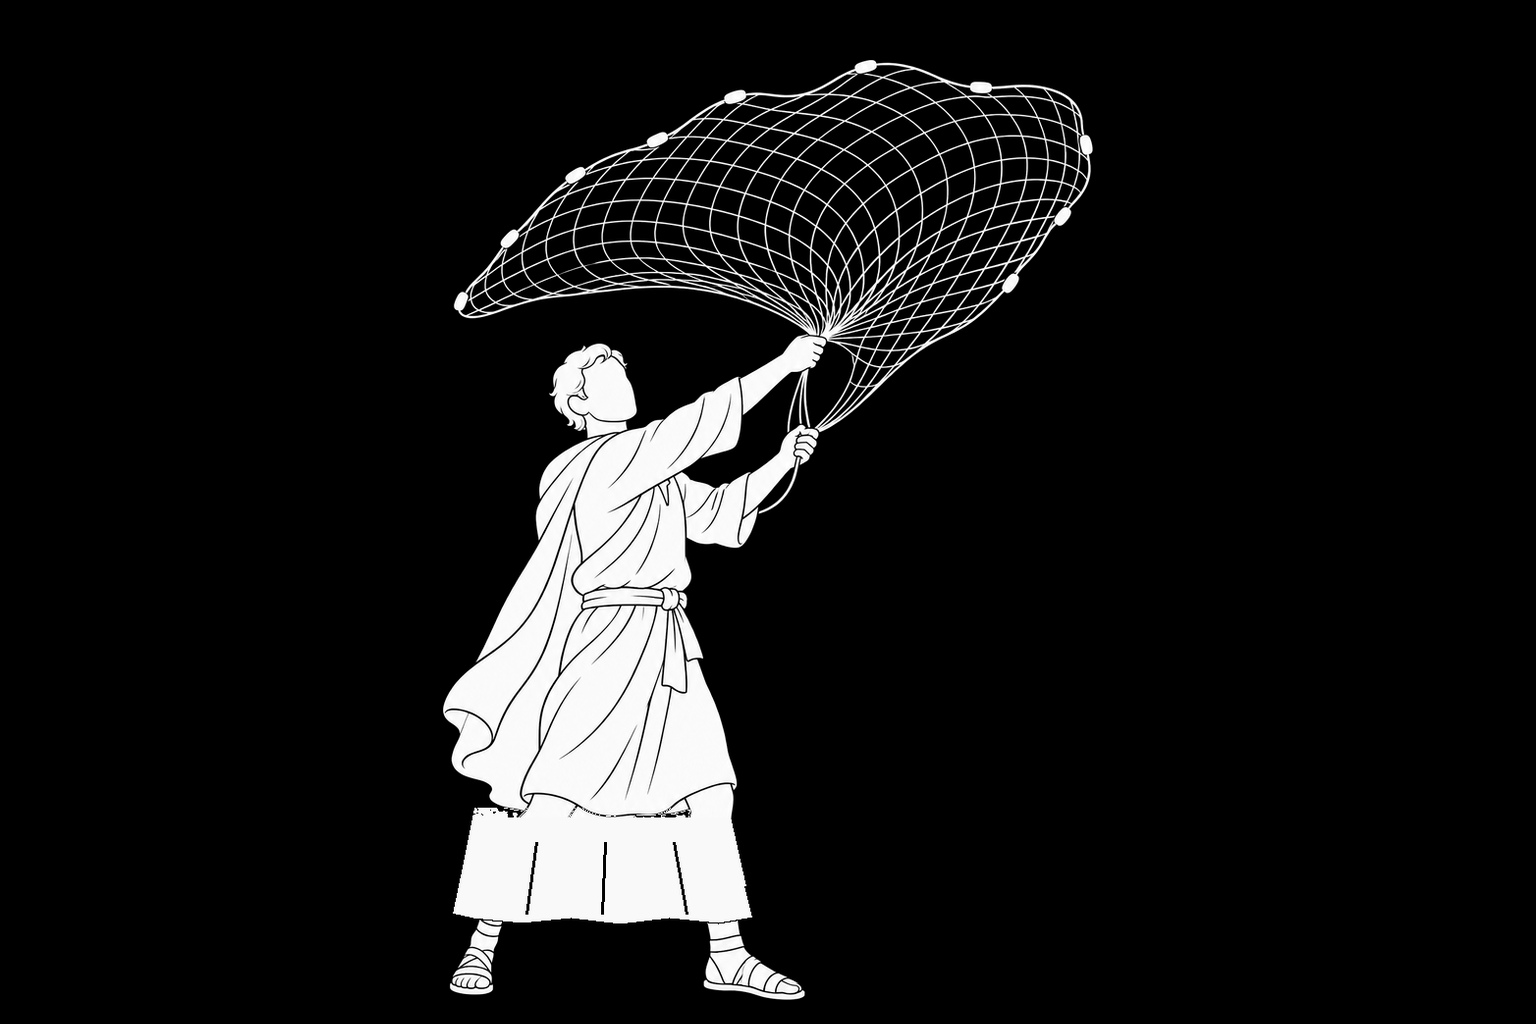
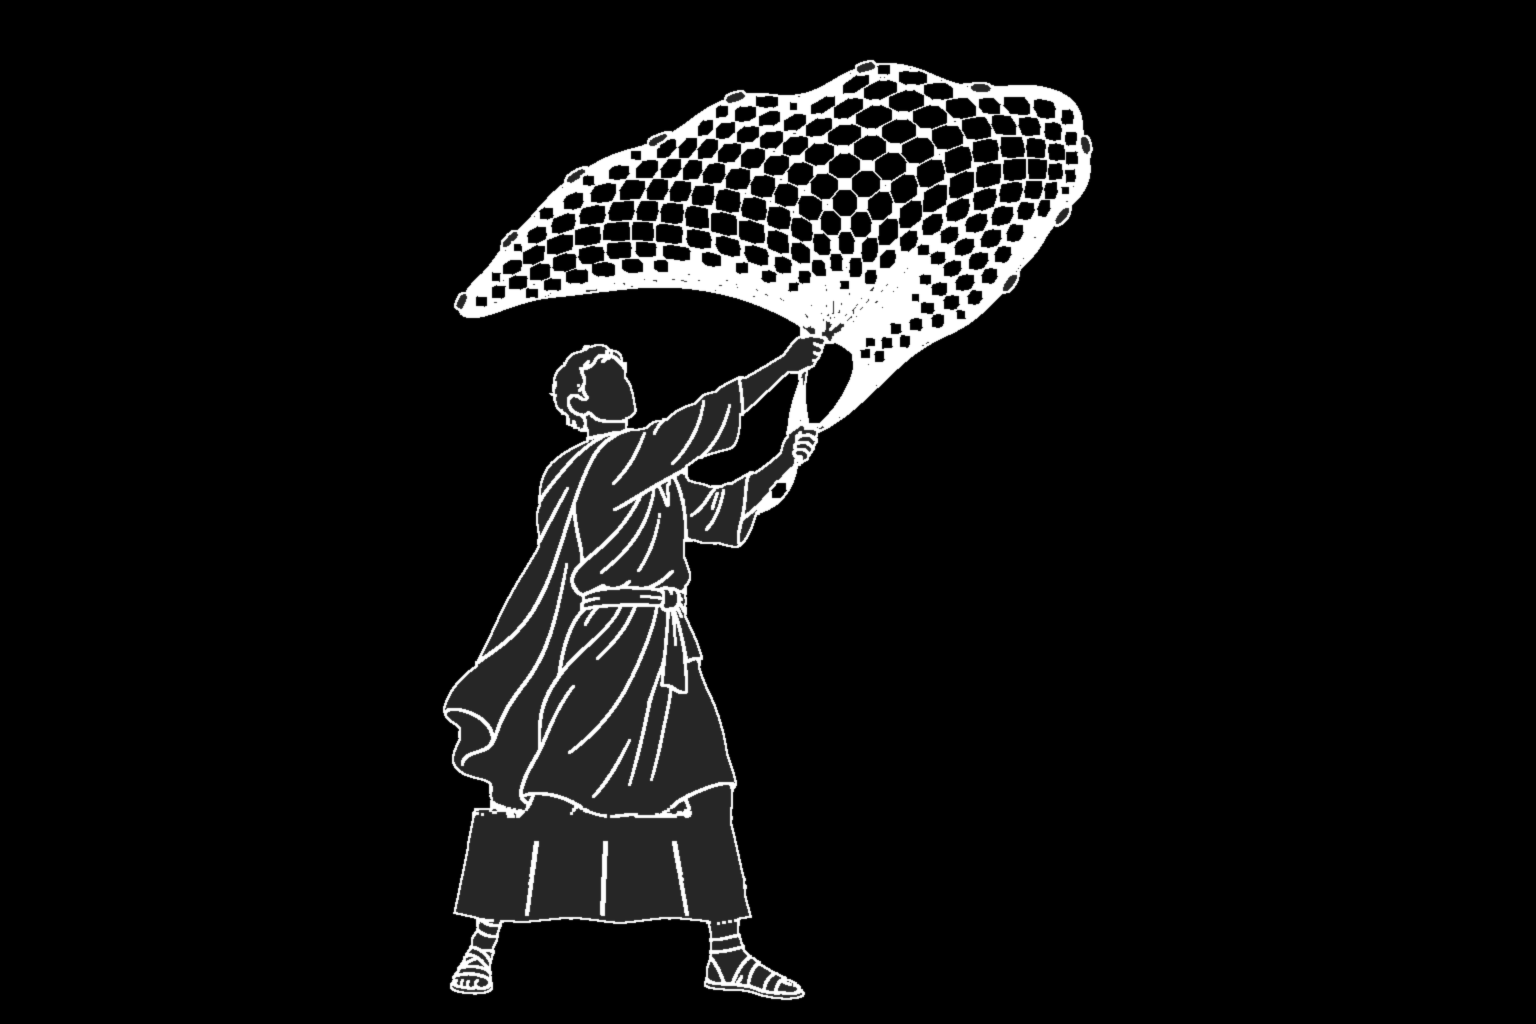
Song 09 round 3: figures as line art, no dissolve edge glow, calmer lower third on the bright plates
Claude-Session: https://claude.ai/code/session_01DSHsMeB7ain7qg3RYXYMEW

Changed region(s): [[0.2812, 0.0625, 0.7188, 1.0]]

diff --git a/engine/songs/s09_save_the_world.py b/engine/songs/s09_save_the_world.py
@@ -244,20 +244,21 @@ SCENES = [
     dict(image=PL + "s09_1_saints_shore_mist.jpg", t0=0.0, t1=11.0, fade_in=1.0, fade_out=2.5,
          zoom=(1.10, 1.04), pan=((0.0, 0.0), (0.01, 0.0)), water=True, water_line=0.43),
     dict(image=PL + "s09_2_shore_before_dawn.jpg", t0=8.5, t1=16.0, fade_in=2.5, fade_out=2.5,
-         transition="dissolve", zoom=(1.04, 1.10), water=True, water_line=0.42),
+         transition="dissolve", edge_glow=0.0, zoom=(1.04, 1.10), water=True, water_line=0.42),
     dict(image=PL + "s09_3_encounter_shore.jpg", t0=13.5, t1=35.0, fade_in=2.5, fade_out=2.5,
-         transition="dissolve", zoom=(1.06, 1.02), water=True, water_line=0.50, water_strength=0.4,
+         transition="dissolve", edge_glow=0.0, zoom=(1.06, 1.02), water=True, water_line=0.50, water_strength=0.4,
          gain=Track([(0, 1.0), (ENC_FORM - 1.0, 1.0), (ENC_FORM + 1.0, 0.82), (ENC_ARRIVE, 0.82), (34.0, 1.0)])),
     dict(image=PL + "s09_4_glory.jpg", t0=32.5, t1=44.0, fade_in=2.5, fade_out=2.5,
-         transition="dissolve", zoom=(1.02, 1.10), water=True, water_line=0.26,
-         gain=Track([(0, 1.0), (COMPARE - 0.5, 1.0), (COMPARE + 1.0, 0.72), (COMPARE + 6.5, 0.72), (42.0, 0.95)])),
+         transition="dissolve", edge_glow=0.0, zoom=(1.02, 1.10), water=True, water_line=0.26, calm_gain=0.4,
+         gain=Track([(0, 0.88), (COMPARE - 0.5, 0.88), (COMPARE + 1.0, 0.70), (COMPARE + 6.5, 0.70), (42.0, 0.88)])),
     dict(image=PL + "s09_5_boats_morning.jpg", t0=41.5, t1=61.0, fade_in=2.5, fade_out=0.0,
-         transition="dissolve", zoom=(1.08, 1.02), water=True, water_line=0.54,
+         transition="dissolve", edge_glow=0.0, zoom=(1.08, 1.02), water=True, water_line=0.54, calm_gain=0.4,
          gain=Track([(0, 1.0), (TITLE_HIT - 3.5, 1.0), (TITLE_HIT - 1.0, 0.72), (TOTAL, 0.72)])),
 ]
 
 # B. People of light. Saints and fisherman: Anthony's special figures (assets/song_figures/s09/, prepared with
-# tools/prepare_figure.py --keep-lines). Encouragement: the shared library pair.
+# tools/prepare_figure.py --keep-lines, then turned from filled white
+# silhouettes into line art with a faint fill so the sparks show the folds). Encouragement: the shared library pair.
 WALK = "assets/song_figures/s09/s09_saint_walking_lamp.png"
 LIFT = "assets/song_figures/s09/s09_saint_lifting_lamp.png"
 FIGURES = [
